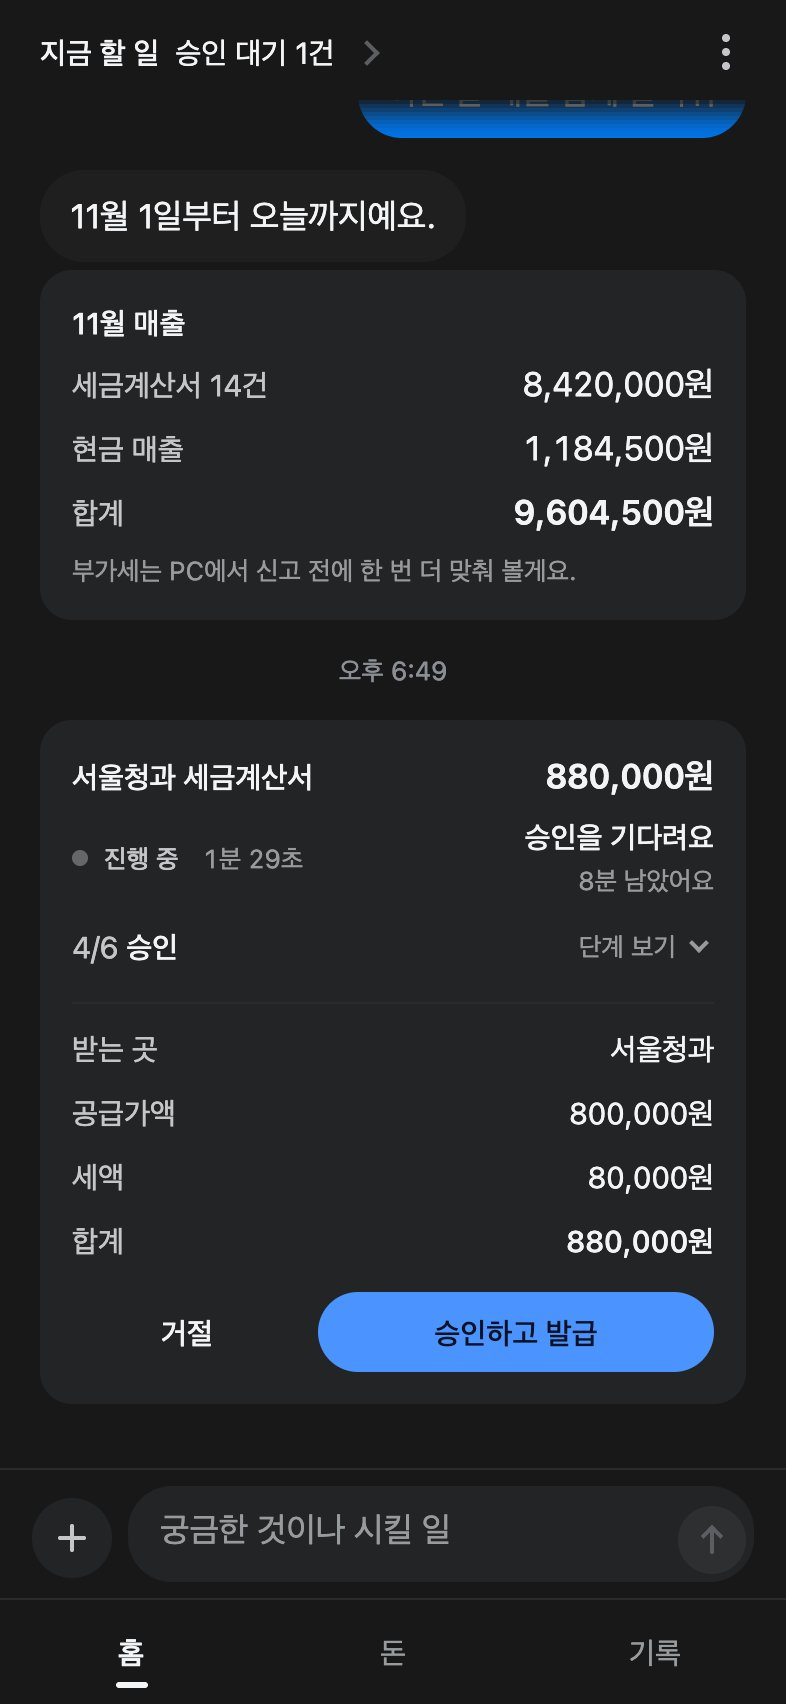
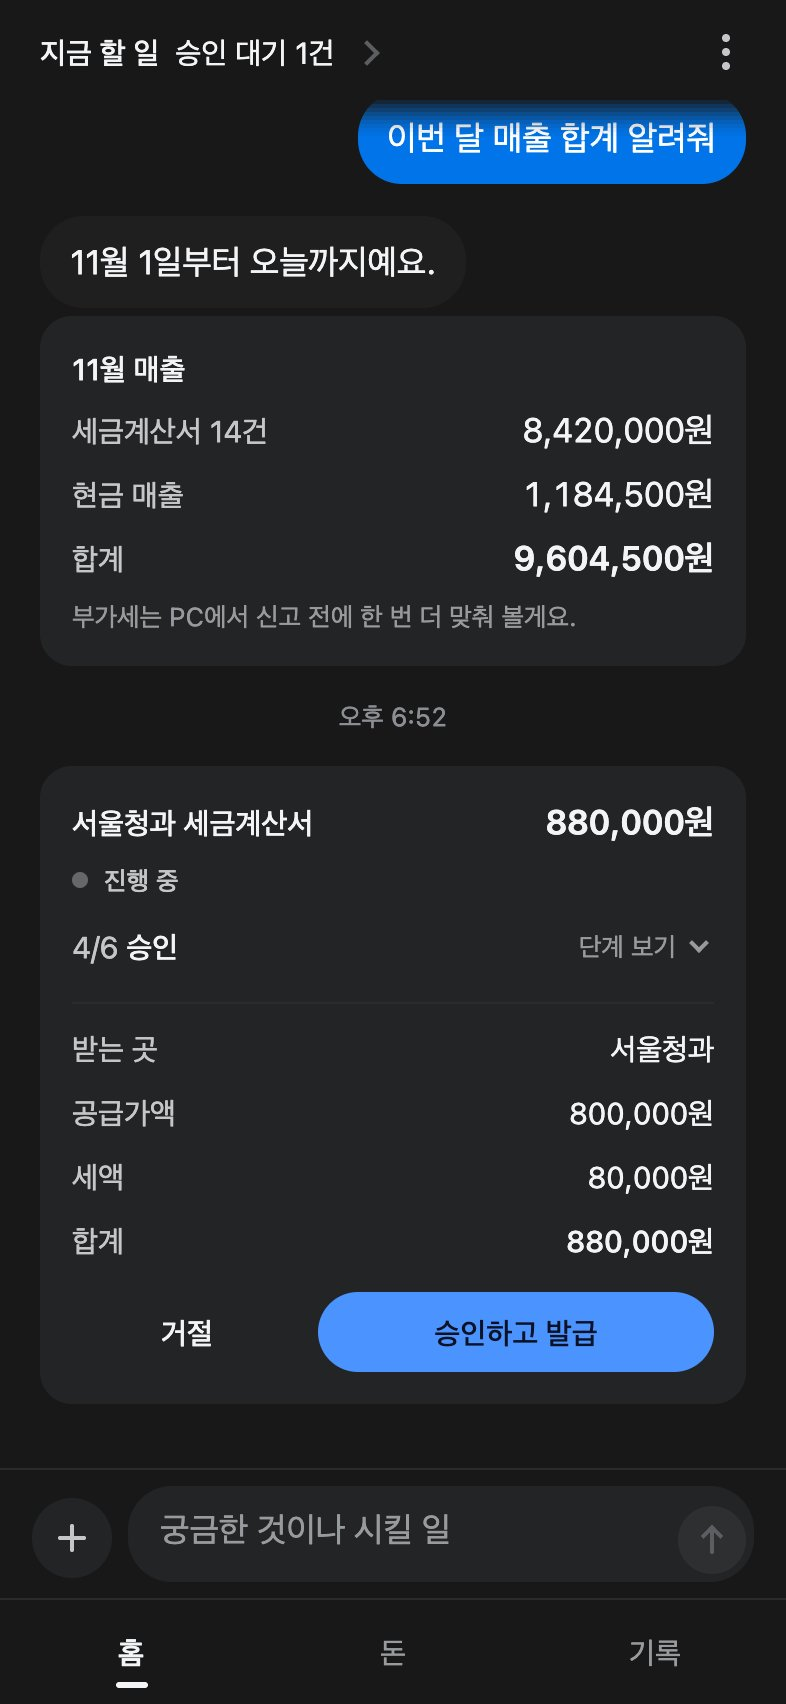
카드: 시간과 '승인을 기다려요' 글 빼기(대표 결정)

Changed region(s): [[0.0916, 0.0622, 0.9466, 0.4354], [0.0916, 0.4354, 0.3969, 0.5288], [0.6718, 0.4354, 0.916, 0.5288]]

diff --git a/src/screens/CardApprove.tsx b/src/screens/CardApprove.tsx
@@ -1,5 +1,5 @@
 // 카드에서 바로 승인(대표 결정 2026-11-19): 첫 화면 대화의 진행 카드와 밀린 일 카드가 같이 쓴다.
-// - 받는 곳, 공급가액, 세액, 합계(PC가 홈택스에서 되읽은 값)와 남은 시간, [승인하고 발급] [거절].
+// - 받는 곳, 공급가액, 세액, 합계(PC가 홈택스에서 되읽은 값)와 [거절] [승인하고 발급]. 시간과 '기다려요' 글은 두지 않는다(대표 결정 2026-11-19).
 // - 서명은 승인 시트와 같다: 같은 키(ApprovalHost approvalKeyFor), 같은 메시지(approveMessage), 같은 상태 판단(sheetState).
 // - 경고를 확인해야 하거나(중복 의심), 멈춤(처음 거래처, 한도, 키 없음 등), 결과 모름이면 카드에서 승인하지 않고 [자세히 보기]로 시트를 연다.
 // - [거절]은 앱 안 확인 시트를 한 번 거친다.
@@ -20,28 +20,7 @@ const ROWS: ReadonlyArray<{ key: string; label: string; strong?: boolean }> = [
   { key: 'totalAmount', label: '합계', strong: true },
 ];
 
-/** 남은 시간을 사람 말로 */
-export function leftLine(ms: number): string {
-  if (ms <= 0) return '시간이 지났어요';
-  if (ms > 60_000) return `${Math.ceil(ms / 60_000)}분 남았어요`;
-  return `${Math.ceil(ms / 1000)}초 남았어요`;
-}
-
-/** 승인을 기다려요 / N분 남았어요(오른쪽 맞춤 두 줄). 대화 카드는 진행 줄 오른쪽에 둔다 */
-export function GateLeft({ gate, now }: { gate: PhoneGate; now: number }) {
-  const left = gate.exp - now;
-  if (left <= 0) return null;
-  return (
-    <View style={{ alignItems: 'flex-end', gap: 2, marginLeft: 'auto' }} testID="card-approve-left">
-      <T v="subStrong">승인을 기다려요</T>
-      <T v="meta" c={left <= 20_000 ? 'attention' : 'ink3'} style={{ fontVariant: ['tabular-nums'] }}>
-        {leftLine(left)}
-      </T>
-    </View>
-  );
-}
-
-export function CardApprove({ job, gate, onDetail, now: fixedNow, leftInside = true }: { job: Job; gate: PhoneGate; onDetail: () => void; now?: number; /** 남은 시간 줄을 카드 안에(밀린 일). 대화 카드는 진행 줄 오른쪽에 따로 둔다 */ leftInside?: boolean }) {
+export function CardApprove({ job, gate, onDetail, now: fixedNow }: { job: Job; gate: PhoneGate; onDetail: () => void; now?: number }) {
   const q = useQueue();
   const s = useSession();
   const p = usePalette();
@@ -89,14 +68,6 @@ export function CardApprove({ job, gate, onDetail, now: fixedNow, leftInside = t
       </View>
       {direct ? (
         <>
-          {leftInside && (
-            <View style={{ gap: 2 }}>
-              <T v="subStrong">승인을 기다려요</T>
-              <T v="meta" c={state.urgent ? 'attention' : 'ink3'} style={{ fontVariant: ['tabular-nums'] }}>
-                {leftLine(state.leftMs)}
-              </T>
-            </View>
-          )}
           <View style={st.buttons}>
             <Button kind="secondary" small label="거절" onPress={() => setAsking(true)} disabled={busy} style={{ flex: 1 }} testID="card-deny" />
             <Button

diff --git a/src/screens/RunCard.tsx b/src/screens/RunCard.tsx
@@ -11,7 +11,7 @@ import type { Job } from '../queue';
 import { ACTION_LABEL, AUTH_APPS, STEPS, STEP_LABEL, STOP_COPY, actionsOf, chipOf, elapsed, groupApprovalNo, mmss, pcTurnOf, stepOf, type IssueResult, type RunAction, type RunView } from '../run';
 import { radius, space, usePalette } from '../theme';
 import { Check, Chevron, Pill, StatusDot, T, success, won } from '../ui/kit';
-import { CardApprove, GateLeft } from './CardApprove';
+import { CardApprove } from './CardApprove';
 
 
 /** PC가 맡은 일의 로그인 차례(폰에서 할 수 있는 일이 있다) */
@@ -91,17 +91,17 @@ export function RunCard({ job, now: fixedNow, compact, onOpen, onAction, onDoc, 
                 시간이 지났어요
               </T>
             )
-          ) : (
+          ) : compact ? null : (
+            // 대화 카드에는 지난 시간을 두지 않는다(대표 결정 2026-11-19: 시간이 바뀌면 어지럽다)
             <T v="meta" c="ink3" testID="run-elapsed">
               {elapsed(now - r.startedAt)}
             </T>
           ))}
-        {onApprove && job.gate && job.state === 'approval' && <GateLeft gate={job.gate} now={now} />}
       </View>
       {/* 이유 없는 PC 멈춤은 어느 단계였는지 모르니 단계 막대를 두지 않는다 */}
       {r.kind !== 'done' && r.kind !== 'refused' && !(r.kind === 'stopped' && (r.reason === 'pcStopped' || r.reason === 'appOld')) && (compact ? <FoldSteps id={job.id} r={r} /> : <StepBar r={r} />)}
       <StateLines r={r} />
-      {onApprove && job.gate && job.state === 'approval' && <CardApprove job={job} gate={job.gate} onDetail={onApprove} now={fixedNow} leftInside={false} />}
+      {onApprove && job.gate && job.state === 'approval' && <CardApprove job={job} gate={job.gate} onDetail={onApprove} now={fixedNow} />}
       {r.kind === 'done' && <ResultRows result={r.result} />}
       {/* 폰 발급 명령은 지켜보기만 한다. 로그인 차례(간편인증·인증서로 다시·승인했어요)만 대화 카드에서 바로 한다 */}
       {compact && (!job.pcOnly || pcTurn(r)) && <CardActions r={r} now={now} onAction={onAction} onDoc={onDoc} onShare={onShare} />}
